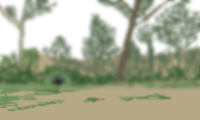
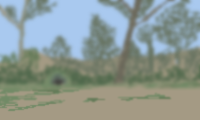
Punching
Recolour background for improved film grain

diff --git a/scripts/main.js b/scripts/main.js
@@ -1,6 +1,7 @@
 var GameState = function(game){};
 
 var parrySound;
+var punchSound;
 var woodSound;
 var move = moveList.roundhousePunch();
 
@@ -22,20 +23,20 @@ GameState.prototype.create = function() {
     //hit: this.game.add.sound('hit'),
   };
   parrySound = this.game.add.sound('parry');
+  punchSound = this.game.add.sound('punch');
   woodSound = this.game.add.sound('wood');
 
   this.groups = {
     bg: this.game.add.group(),
     title: this.game.add.group(),
+    dummy: this.game.add.group(),
     armsBack: this.game.add.group(),
     bodies: this.game.add.group(),
     armsFront: this.game.add.group()
   };
   this.collisionGroups = {
     enemies: this.game.physics.p2.createCollisionGroup(),
-    player: this.game.physics.p2.createCollisionGroup(),
-    enemyFists: this.game.physics.p2.createCollisionGroup(),
-    playerFists: this.game.physics.p2.createCollisionGroup()
+    players: this.game.physics.p2.createCollisionGroup()
   };
 
   var bg = this.game.add.sprite(0, 0, 'bg');
@@ -45,26 +46,21 @@ GameState.prototype.create = function() {
   var y = GAME_HEIGHT / 2 + 25;
   this.player = new Player(
     this.game,
-    this.groups.bodies, this.collisionGroups.player,
-    [this.collisionGroups.enemyFists],
+    this.groups.bodies, this.collisionGroups.players,
     this.groups.armsBack, this.groups.armsFront,
-    this.collisionGroups.playerFists,
-    [this.collisionGroups.enemies, this.collisionGroups.enemyFists],
+    [this.collisionGroups.enemies],
     GAME_WIDTH / 2, y, 1);
 
   this.enemy = new Player(
     this.game,
     this.groups.bodies, this.collisionGroups.enemies,
-    [this.collisionGroups.playerFists],
     this.groups.armsBack, this.groups.armsFront,
-    this.collisionGroups.enemyFists,
-    [this.collisionGroups.player, this.collisionGroups.playerFists],
+    [this.collisionGroups.players],
     GAME_WIDTH / 2 + 80, y, -1);
 
   this.dummy = new Dummy(
-    this.game, this.groups.bodies, this.collisionGroups.enemyFists,
-    [this.collisionGroups.player, this.collisionGroups.playerFists],
-    GAME_WIDTH * 0.3, y + 3);
+    this.game, this.groups.dummy, this.collisionGroups.enemies,
+    [this.collisionGroups.players], GAME_WIDTH * 0.3, y + 3);
 
   this.game.input.onDown.add(function() {
     this.tryStart();
@@ -84,7 +80,7 @@ GameState.prototype.create = function() {
   filterVignette.alpha = 1.0;
   var filterFilmGrain = this.game.add.filter('FilmGrain');
   filterFilmGrain.color = 0.1;
-  filterFilmGrain.amount = 0.2;
+  filterFilmGrain.amount = 0.1;
   filterFilmGrain.luminance = 0.12;
   this.game.stage.filters = [filterVignette, filterFilmGrain];
 /*
@@ -111,7 +107,7 @@ GameState.prototype.create = function() {
 };
 
 GameState.prototype.start = function() {
-  //this.groups.tourists.removeAll();
+  this.groups.dummy.removeAll();
 
   this.timeLast = this.game.time.now;
   this.timeLastHalf = this.timeLast;
@@ -195,7 +191,7 @@ GameState.prototype.update = function() {
     move = randomMove();
   }
   move.apply(this.enemy.leftFist, this.enemy.rightFist);
-  
+
   this.game.stage.filters[1].update();
 };
 
@@ -209,6 +205,9 @@ function parry(b1, b2) {
     if (b2.sprite.key == 'dummy_arm_upper' ||
       b2.sprite.key == 'dummy_arm_lower') {
       woodSound.play();
+    } else if (b2.sprite.key == 'torso' ||
+      b2.sprite.key == 'head') {
+      punchSound.play();
     } else {
       parrySound.play();
     }

diff --git a/scripts/player.js b/scripts/player.js
@@ -4,8 +4,8 @@ var ARM_FORCE = 1000;
 var TORSO_ROTATE_SPEED = 0.06;
 
 var Player = function(
-  game, group, collisionGroup, collidesWith,
-  fists_back, fists, fistsCollisionGroup, fistsCollidesWith, x, y, xscale) {
+  game, group, collisionGroup,
+  fists_back, fists, fistsCollidesWith, x, y, xscale) {
   Phaser.Sprite.call(this, game, x, y, 'player');
   this.anchor.setTo(0.5);
   // TODO: player body
@@ -18,8 +18,11 @@ var Player = function(
   this.torso = game.add.sprite(x - 2*xscale, y - 8, 'torso');
   game.physics.p2.enable(this.torso, false);
   this.torso.scale.setTo(PLAYER_SCALE);
-  this.torso.scale.x *= xscale;
   this.torso.anchor.setTo(0.5, 0.9);
+  this.torso.body.setRectangle(this.torso.width, this.torso.height);
+  this.torso.scale.x *= xscale;
+  this.torso.body.setCollisionGroup(collisionGroup);
+  this.torso.body.collides(fistsCollidesWith, parry, this.torso);
   this.torso.body.static = true;
   this.torso.body.rotation = 0.3;
   group.add(this.torso);
@@ -28,13 +31,13 @@ var Player = function(
     this.torso.x + 3*xscale, this.torso.y - 60, 'head');
   game.physics.p2.enable(this.head, false);
   this.head.scale.setTo(PLAYER_SCALE);
+  this.head.body.setCircle(this.head.width / 2);
   this.head.scale.x *= xscale;
   game.physics.p2.createRevoluteConstraint(
     this.torso, [3*xscale, -1.05*this.torso.height], this.head, [0, 0],
     ARM_FORCE);
-  this.head.body.setCircle(this.head.width / 2);
   this.head.body.setCollisionGroup(collisionGroup);
-  //this.head.body.collides(collidesWith, null, this);
+  this.head.body.collides(fistsCollidesWith, parry, this.head);
   this.head.body.fixedRotation = true;
   group.add(this.head);
 
@@ -47,19 +50,19 @@ var Player = function(
   // Add some arms and fists
   var addArm = function(player, layer, shoulder, _sx, frame) {
     var upper = new Arm(
-      game, layer, fistsCollisionGroup, fistsCollidesWith, parry,
+      game, layer, collisionGroup, fistsCollidesWith, parry,
       shoulder.x, shoulder.y, 'arm_upper');
     game.physics.p2.createRevoluteConstraint(
       player.torso, [_sx, sy],
       upper, [-upper.width / 2 + upper.height / 2, 0],
       ARM_FORCE);
     var lower = new Arm(
-      game, layer, fistsCollisionGroup, fistsCollidesWith, parry,
+      game, layer, collisionGroup, fistsCollidesWith, parry,
       shoulder.x, shoulder.y, 'arm_lower');
     game.physics.p2.createRevoluteConstraint(
       upper, [upper.width / 2, 0], lower, [-lower.width*0.4, 0], ARM_FORCE);
     var fist = new Fist(
-      game, layer, fistsCollisionGroup, fistsCollidesWith, parry,
+      game, layer, collisionGroup, fistsCollidesWith, parry,
       shoulder.x, shoulder.y, 'fist', frame,
       PLAYER_ARM_LENGTH, lower, PLAYER_FIST_SPEED);
     game.physics.p2.createRevoluteConstraint(

diff --git a/scripts/preload.js b/scripts/preload.js
@@ -29,6 +29,7 @@ BasicGame.Preload.prototype = {
       this.game.load.spritesheet('fist', 'images/fist.png', 9, 9);
 
       this.game.load.audio('parry', 'sounds/parry.ogg');
+      this.game.load.audio('punch', 'sounds/punch.ogg');
       this.game.load.audio('wood', 'sounds/wood.ogg');
       this.game.load.audio('whoosh', 'sounds/whoosh.ogg');
 

diff --git a/README.md b/README.md
@@ -19,5 +19,6 @@ Jonga is open source and made for [Mini LD 62](insert link here)
 - Dummy derived from [Home Objects by Jannax](http://opengameart.org/content/home-objects) [![](https://licensebuttons.net/p/zero/1.0/80x15.png)](https://creativecommons.org/publicdomain/zero/1.0/)
 - Sounds:
   - parry derived from [Weapons & Fighting » Fist Punch 3.mp3 by CGEffex](https://freesound.org/people/CGEffex/sounds/89769/) [![](https://licensebuttons.net/l/by/3.0/80x15.png)](https://creativecommons.org/licenses/by/3.0/)
+  - punch deriveed from [punch.wav by Ekokubza123](https://freesound.org/people/Ekokubza123/sounds/104183/) [![](https://licensebuttons.net/p/zero/1.0/80x15.png)](https://creativecommons.org/publicdomain/zero/1.0/)
   - whoosh derived from [heavy cloth rustle.wav by jacobzeier](https://freesound.org/people/jacobzeier/sounds/163164/) [![](https://licensebuttons.net/p/zero/1.0/80x15.png)](https://creativecommons.org/publicdomain/zero/1.0/)
   - wood derived from [Wood Impacts » Dropping Wood 4.wav by kwahmah_02](https://freesound.org/people/kwahmah_02/sounds/251365/) [![](https://licensebuttons.net/l/by/3.0/80x15.png)](https://creativecommons.org/licenses/by/3.0/)
